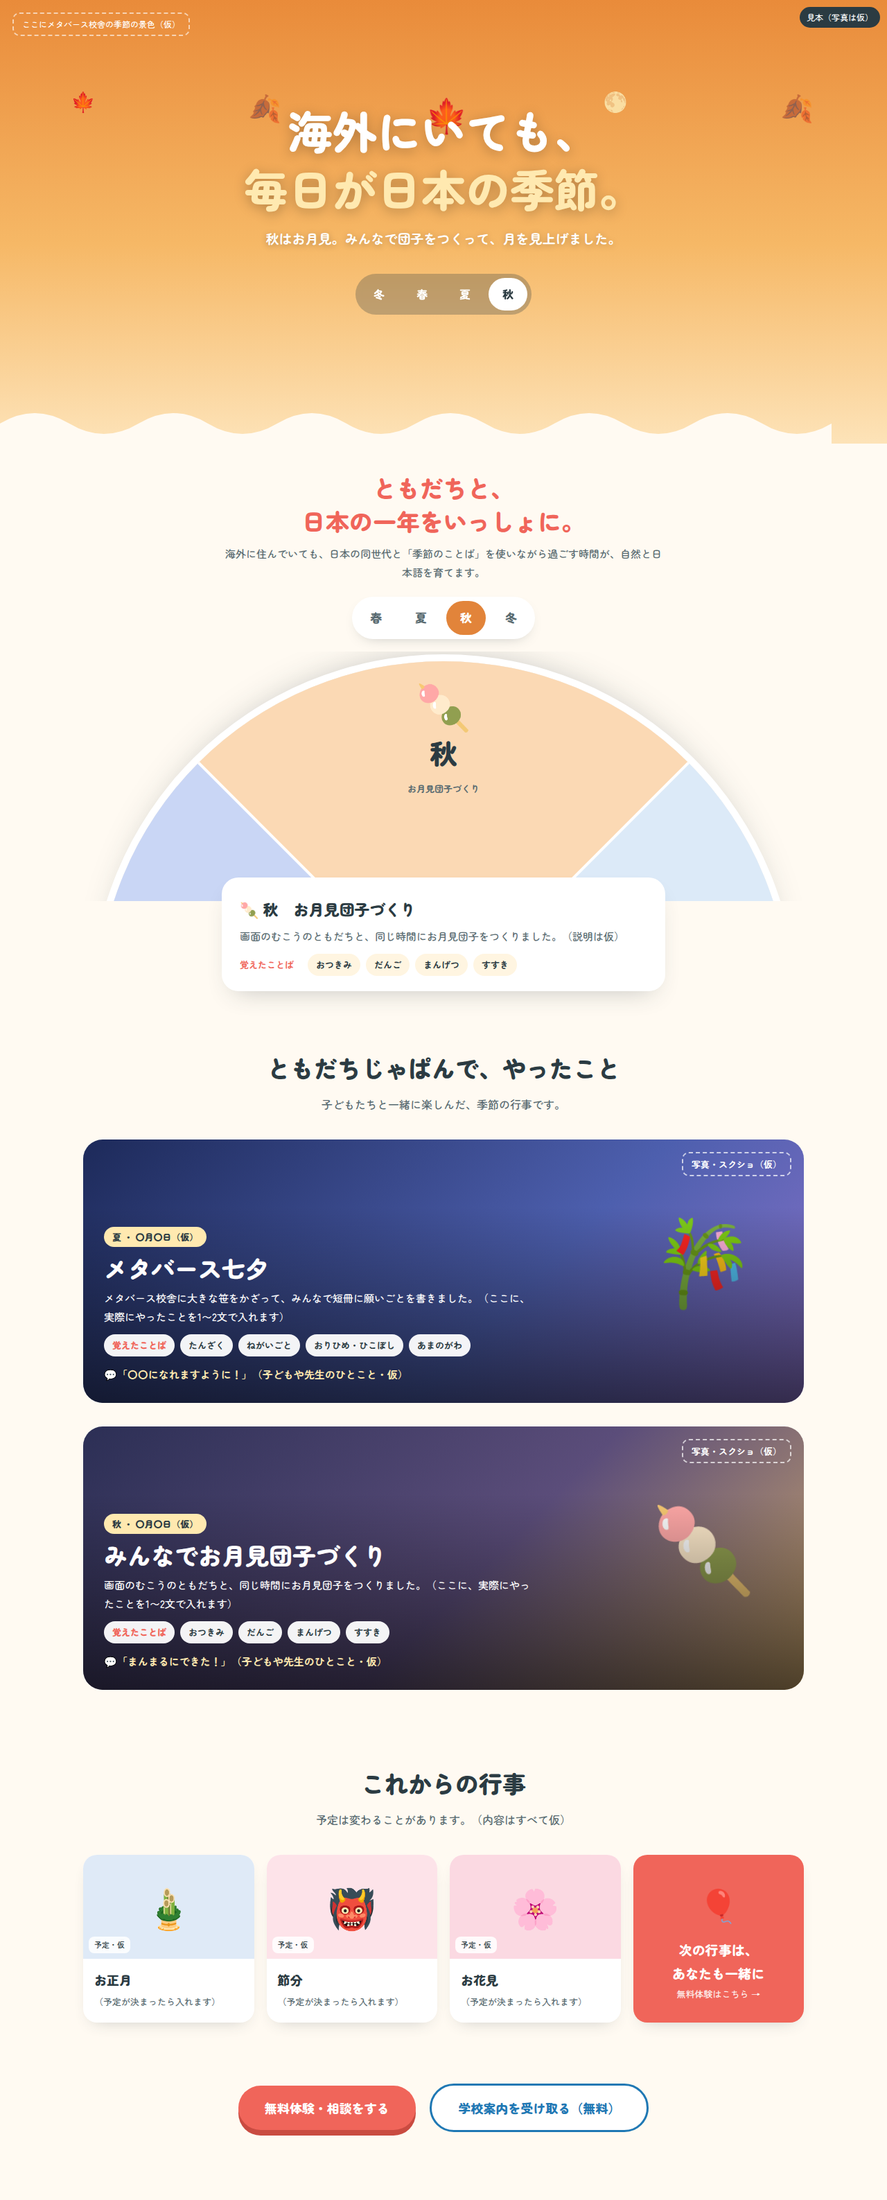
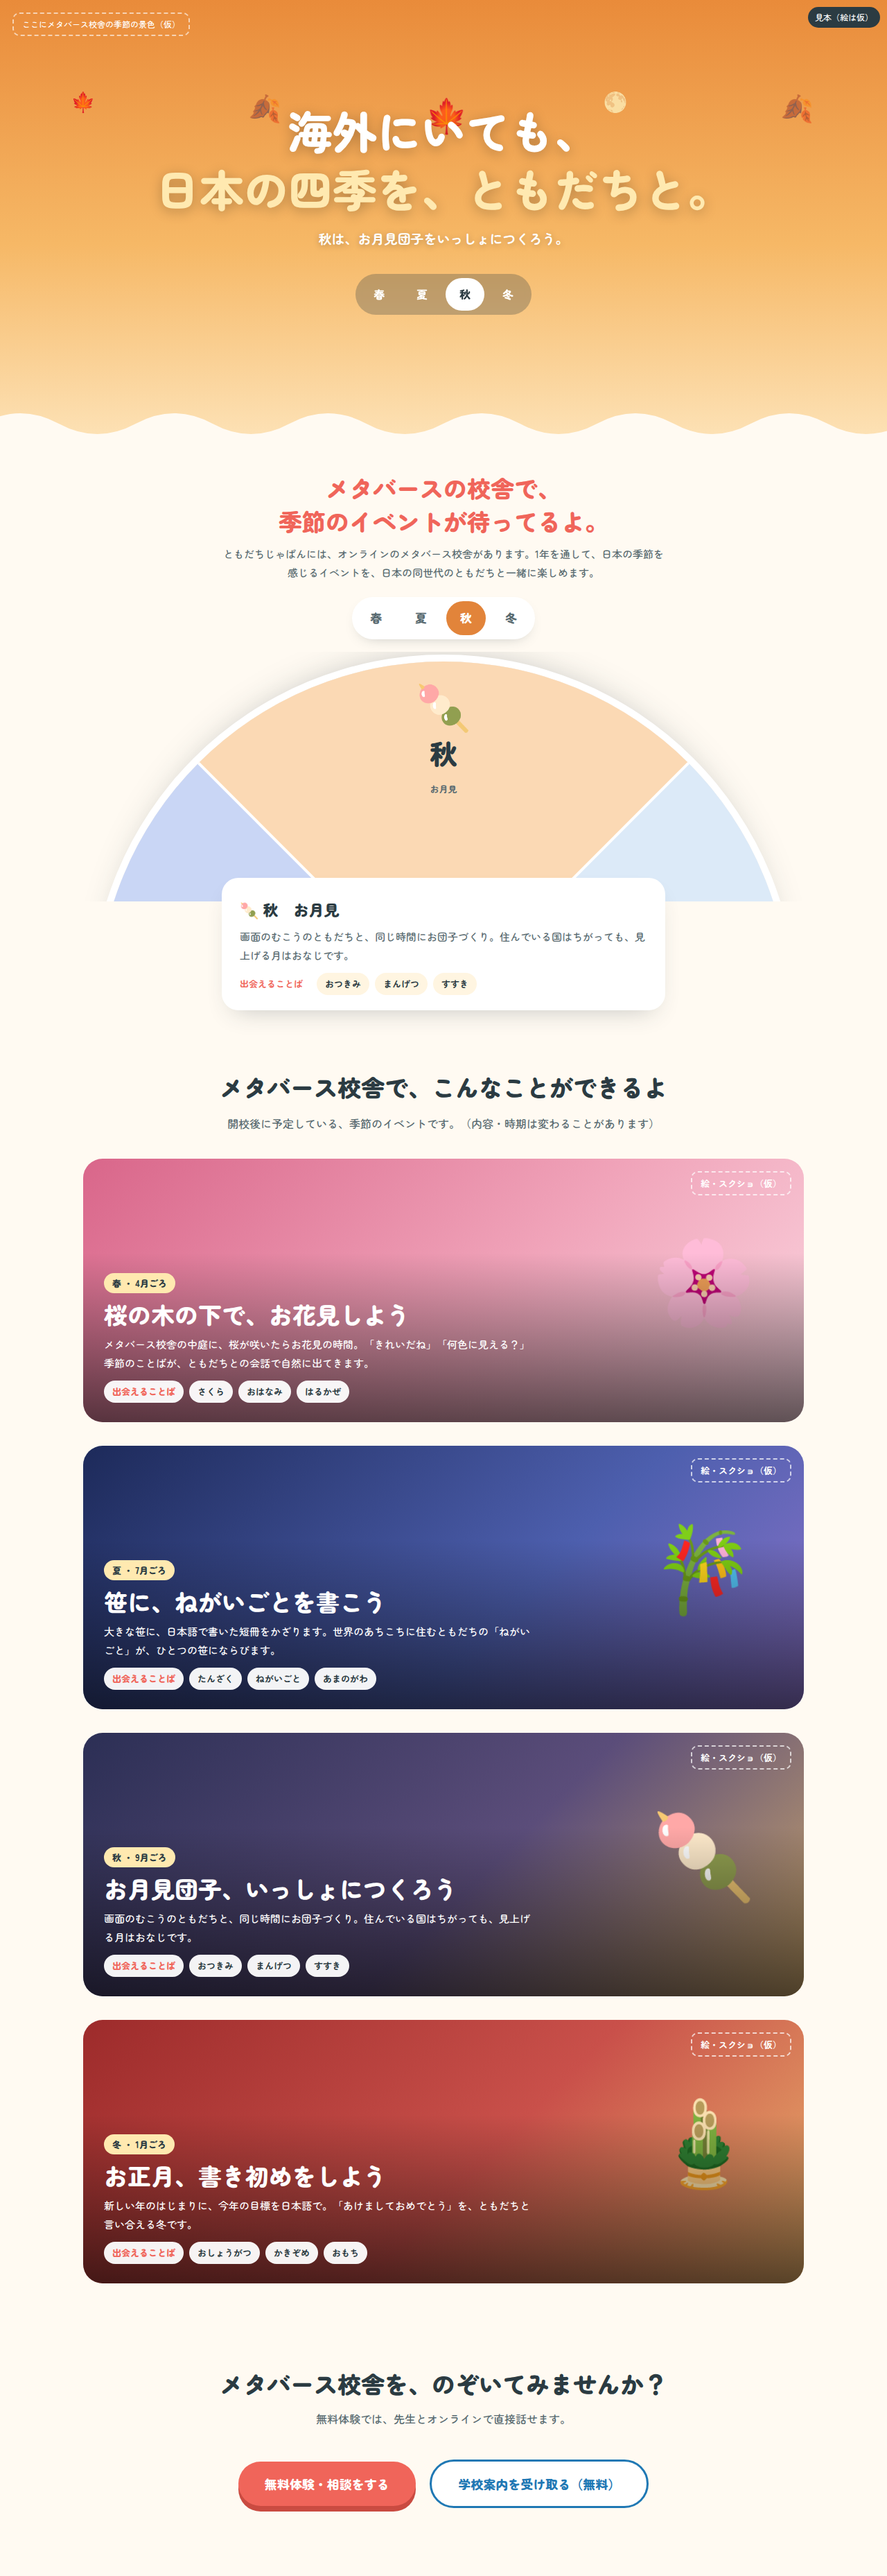
四季のページ見本：予定イベントの案内ページに書き直し
Claude-Session: https://claude.ai/code/session_01TCRPV7fohktLwWF6WC9mVd

diff --git a/site/kisetsu/kisetsu-mock.html b/site/kisetsu/kisetsu-mock.html
@@ -23,7 +23,7 @@ body{font-family:'Zen Maru Gothic',sans-serif;color:#2b3b42;background:#fffaf2;l
 .ks-tabs{position:relative;display:flex;gap:6px;margin-top:34px;background:rgba(43,59,66,.28);padding:6px;border-radius:999px;backdrop-filter:blur(4px)}
 .ks-tabs button{font:inherit;font-weight:900;font-size:16px;border:0;background:transparent;color:#fff;padding:9px 20px;border-radius:999px;cursor:pointer}
 .ks-tabs button.on{background:#fff;color:#2b3b42}
-.ks-edge{position:absolute;left:0;right:0;bottom:-1px;height:60px}
+.ks-edge{position:absolute;left:-2%;width:104%;bottom:-1px;height:60px}
 /* ===== あいさつ（アーチ） ===== */
 /* ===== 季節の輪（大きな円が回る） ===== */
 .ks-ws{position:relative;text-align:center;padding:40px 16px 10px}
@@ -59,6 +59,8 @@ box-shadow:0 0 0 10px #fff,0 20px 50px -20px rgba(43,59,66,.35);transition:trans
 .ks-panel .ks-ph b{position:absolute;top:18px;right:18px;font-size:13px;border:2px dashed rgba(255,255,255,.7);padding:4px 12px;border-radius:10px;font-weight:700}
 .ks-tanabata .ks-ph{background:linear-gradient(135deg,#1d2a5a,#4d5fae 60%,#8a73c9)}
 .ks-tsukimi .ks-ph{background:linear-gradient(135deg,#2c2f55,#5b4d7a 55%,#c9a46a)}
+.ks-hanami .ks-ph{background:linear-gradient(135deg,#d9668a,#f0a3b9 55%,#fbd6e0)}
+.ks-shogatsu .ks-ph{background:linear-gradient(135deg,#9d2b2b,#c9504a 55%,#e9b16a)}
 .ks-panel .ks-in{position:relative;width:100%;padding:28px 30px;background:linear-gradient(0deg,rgba(0,0,0,.62),rgba(0,0,0,0))}
 .ks-tag{display:inline-block;background:#ffe9b0;color:#2b3b42;font-size:13px;font-weight:900;padding:3px 12px;border-radius:999px}
 .ks-panel h3{font-size:clamp(24px,4vw,34px);font-weight:900;margin:8px 0 6px;line-height:1.35}
@@ -85,73 +87,82 @@ box-shadow:0 0 0 10px #fff,0 20px 50px -20px rgba(43,59,66,.35);transition:trans
 @media (max-width:820px){.ks-cards{grid-template-columns:1fr 1fr}}
 @media (max-width:560px){.ks-panel .ks-ph{justify-content:center;padding:58px 0 0;font-size:76px}.ks-hero{min-height:560px}.ks-tabs button{padding:8px 13px;font-size:15px}.ks-panel{min-height:520px}.ks-panel .ks-in{padding:22px 20px}.ks-cards{grid-template-columns:1fr 1fr;gap:12px}.ks-card .ks-cimg{height:110px}}
 </style></head><body>
-<div class="ks-mock">見本（写真は仮）</div>
+<div class="ks-mock">見本（絵は仮）</div>
 
 <section class="ks-hero" id="ksHero" data-s="autumn">
   <div class="ks-photo"><span>ここにメタバース校舎の季節の景色（仮）</span></div>
   <div class="ks-deco" id="ksDeco"></div>
-  <h1>海外にいても、<br><em>毎日が日本の季節。</em></h1>
-  <p class="ks-sub" id="ksSub">秋はお月見。みんなで団子をつくって、月を見上げました。</p>
+  <h1>海外にいても、<br><em>日本の四季を、ともだちと。</em></h1>
+  <p class="ks-sub" id="ksSub"></p>
   <div class="ks-tabs" role="tablist">
-    <button data-s="winter">冬</button><button data-s="spring">春</button><button data-s="summer">夏</button><button data-s="autumn" class="on">秋</button>
+    <button data-s="spring">春</button><button data-s="summer">夏</button><button data-s="autumn" class="on">秋</button><button data-s="winter">冬</button>
   </div>
   <svg class="ks-edge" viewBox="0 0 1200 60" preserveAspectRatio="none"><path fill="#fffaf2" d="M0 30 Q50 0 100 30 Q150 60 200 30 Q250 0 300 30 Q350 60 400 30 Q450 0 500 30 Q550 60 600 30 Q650 0 700 30 Q750 60 800 30 Q850 0 900 30 Q950 60 1000 30 Q1050 0 1100 30 Q1150 60 1200 30 V60 H0Z"/></svg>
 </section>
 
 <section class="ks-ws">
-  <h2>ともだちと、<br>日本の一年をいっしょに。</h2>
-  <p>海外に住んでいても、日本の同世代と「季節のことば」を使いながら過ごす時間が、自然と日本語を育てます。</p>
+  <h2>メタバースの校舎で、<br>季節のイベントが待ってるよ。</h2>
+  <p>ともだちじゃぱんには、オンラインのメタバース校舎があります。1年を通して、日本の季節を感じるイベントを、日本の同世代のともだちと一緒に楽しめます。</p>
   <div class="ks-wb" id="ksWb"><button data-s="spring">春</button><button data-s="summer">夏</button><button data-s="autumn">秋</button><button data-s="winter">冬</button></div>
   <div class="ks-win">
     <div class="ks-wheel" id="ksWheel">
-      <div class="ks-q" style="transform:rotate(0deg)"><div><span class="e">🌸</span><span class="n">春</span><span class="m">お花見（仮）</span></div></div>
-      <div class="ks-q" style="transform:rotate(90deg)"><div><span class="e">🎋</span><span class="n">夏</span><span class="m">メタバース七夕</span></div></div>
-      <div class="ks-q" style="transform:rotate(180deg)"><div><span class="e">🍡</span><span class="n">秋</span><span class="m">お月見団子づくり</span></div></div>
-      <div class="ks-q" style="transform:rotate(270deg)"><div><span class="e">⛄</span><span class="n">冬</span><span class="m">お正月（仮）</span></div></div>
+      <div class="ks-q" style="transform:rotate(0deg)"><div><span class="e">🌸</span><span class="n">春</span><span class="m">お花見</span></div></div>
+      <div class="ks-q" style="transform:rotate(90deg)"><div><span class="e">🎋</span><span class="n">夏</span><span class="m">七夕</span></div></div>
+      <div class="ks-q" style="transform:rotate(180deg)"><div><span class="e">🍡</span><span class="n">秋</span><span class="m">お月見</span></div></div>
+      <div class="ks-q" style="transform:rotate(270deg)"><div><span class="e">⛄</span><span class="n">冬</span><span class="m">お正月</span></div></div>
     </div>
   </div>
   <div class="ks-wt" id="ksWt"></div>
 </section>
 
 <section class="ks-wrap">
-  <h2 class="ks-h">ともだちじゃぱんで、<span style="display:inline-block">やったこと</span></h2>
-  <p class="ks-lead">子どもたちと一緒に楽しんだ、<span style="display:inline-block">季節の行事です。</span></p>
+  <h2 class="ks-h">メタバース校舎で、<span style="display:inline-block">こんなことができるよ</span></h2>
+  <p class="ks-lead">開校後に予定している、季節のイベントです。<span style="display:inline-block">（内容・時期は変わることがあります）</span></p>
+
+  <article class="ks-panel ks-hanami">
+    <div class="ks-ph">🌸<b>絵・スクショ（仮）</b></div>
+    <div class="ks-in">
+      <span class="ks-tag">春 ・ 4月ごろ</span>
+      <h3>桜の木の下で、お花見しよう</h3>
+      <p>メタバース校舎の中庭に、桜が咲いたらお花見の時間。「きれいだね」「何色に見える？」季節のことばが、ともだちとの会話で自然に出てきます。</p>
+      <div class="ks-words"><span><b>出会えることば</b></span><span>さくら</span><span>おはなみ</span><span>はるかぜ</span></div>
+    </div>
+  </article>
 
   <article class="ks-panel ks-tanabata">
-    <div class="ks-ph">🎋<b>写真・スクショ（仮）</b></div>
+    <div class="ks-ph">🎋<b>絵・スクショ（仮）</b></div>
     <div class="ks-in">
-      <span class="ks-tag">夏 ・ 〇月〇日（仮）</span>
-      <h3>メタバース七夕</h3>
-      <p>メタバース校舎に大きな笹をかざって、みんなで短冊に願いごとを書きました。（ここに、実際にやったことを1〜2文で入れます）</p>
-      <div class="ks-words"><span><b>覚えたことば</b></span><span>たんざく</span><span>ねがいごと</span><span>おりひめ・ひこぼし</span><span>あまのがわ</span></div>
-      <p class="ks-voice">💬「〇〇になれますように！」（子どもや先生のひとこと・仮）</p>
+      <span class="ks-tag">夏 ・ 7月ごろ</span>
+      <h3>笹に、ねがいごとを書こう</h3>
+      <p>大きな笹に、日本語で書いた短冊をかざります。世界のあちこちに住むともだちの「ねがいごと」が、ひとつの笹にならびます。</p>
+      <div class="ks-words"><span><b>出会えることば</b></span><span>たんざく</span><span>ねがいごと</span><span>あまのがわ</span></div>
     </div>
   </article>
 
   <article class="ks-panel ks-tsukimi">
-    <div class="ks-ph">🍡<b>写真・スクショ（仮）</b></div>
+    <div class="ks-ph">🍡<b>絵・スクショ（仮）</b></div>
     <div class="ks-in">
-      <span class="ks-tag">秋 ・ 〇月〇日（仮）</span>
-      <h3>みんなでお月見団子づくり</h3>
-      <p>画面のむこうのともだちと、同じ時間にお月見団子をつくりました。（ここに、実際にやったことを1〜2文で入れます）</p>
-      <div class="ks-words"><span><b>覚えたことば</b></span><span>おつきみ</span><span>だんご</span><span>まんげつ</span><span>すすき</span></div>
-      <p class="ks-voice">💬「まんまるにできた！」（子どもや先生のひとこと・仮）</p>
+      <span class="ks-tag">秋 ・ 9月ごろ</span>
+      <h3>お月見団子、いっしょにつくろう</h3>
+      <p>画面のむこうのともだちと、同じ時間にお団子づくり。住んでいる国はちがっても、見上げる月はおなじです。</p>
+      <div class="ks-words"><span><b>出会えることば</b></span><span>おつきみ</span><span>まんげつ</span><span>すすき</span></div>
+    </div>
+  </article>
+
+  <article class="ks-panel ks-shogatsu">
+    <div class="ks-ph">🎍<b>絵・スクショ（仮）</b></div>
+    <div class="ks-in">
+      <span class="ks-tag">冬 ・ 1月ごろ</span>
+      <h3>お正月、書き初めをしよう</h3>
+      <p>新しい年のはじまりに、今年の目標を日本語で。「あけましておめでとう」を、ともだちと言い合える冬です。</p>
+      <div class="ks-words"><span><b>出会えることば</b></span><span>おしょうがつ</span><span>かきぞめ</span><span>おもち</span></div>
     </div>
   </article>
 </section>
 
-<section class="ks-wrap" style="padding-top:0">
-  <h2 class="ks-h">これからの行事</h2>
-  <p class="ks-lead">予定は変わることがあります。（内容はすべて仮）</p>
-  <div class="ks-cards">
-    <div class="ks-card"><div class="ks-cimg" style="background:#dfeaf7">🎍<small>予定・仮</small></div><h4>お正月</h4><p>（予定が決まったら入れます）</p></div>
-    <div class="ks-card"><div class="ks-cimg" style="background:#fde3e9">👹<small>予定・仮</small></div><h4>節分</h4><p>（予定が決まったら入れます）</p></div>
-    <div class="ks-card"><div class="ks-cimg" style="background:#fbd9e2">🌸<small>予定・仮</small></div><h4>お花見</h4><p>（予定が決まったら入れます）</p></div>
-    <a class="ks-card ks-cta" href="/trial/?utm_source=kisetsu&amp;utm_medium=page&amp;utm_campaign=taiken"><span>🎈</span><strong>次の行事は、<br>あなたも一緒に</strong><em>無料体験はこちら →</em></a>
-  </div>
-</section>
-
 <section class="ks-end">
+  <h2 class="ks-h" style="margin-bottom:6px">メタバース校舎を、<span style="display:inline-block">のぞいてみませんか？</span></h2>
+  <p class="ks-lead">無料体験では、先生とオンラインで直接話せます。</p>
   <a class="ks-btn" href="/trial/?utm_source=kisetsu&amp;utm_medium=page&amp;utm_campaign=taiken">無料体験・相談をする</a>
   <a class="ks-btn ks-sub2" href="/waitlist/?utm_source=kisetsu&amp;utm_medium=page&amp;utm_campaign=shiryou">学校案内を受け取る（無料）</a>
 </section>
@@ -159,14 +170,14 @@ box-shadow:0 0 0 10px #fff,0 20px 50px -20px rgba(43,59,66,.35);transition:trans
 <script>
 (function(){
 var S={
- spring:{i:0,sub:"春はお花見。（仮）",d:["🌸","🌸","🌸","🌸","🌸"],t:"🌸 春　お花見（仮）",p:"（春にやる行事が決まったら、ここに説明を入れます）",w:["さくら","おはなみ","はるやすみ"]},
- summer:{i:1,sub:"夏は七夕。願いごとを短冊に書きました。",d:["✨","⭐","🎋","✨","⭐"],t:"🎋 夏　メタバース七夕",p:"メタバース校舎に大きな笹をかざって、みんなで短冊に願いごとを書きました。（説明は仮）",w:["たんざく","ねがいごと","あまのがわ"]},
- autumn:{i:2,sub:"秋はお月見。みんなで団子をつくって、月を見上げました。",d:["🍁","🍂","🍁","🌕","🍂"],t:"🍡 秋　お月見団子づくり",p:"画面のむこうのともだちと、同じ時間にお月見団子をつくりました。（説明は仮）",w:["おつきみ","だんご","まんげつ","すすき"]},
- winter:{i:3,sub:"冬は雪あそびとお正月。（仮）",d:["❄","❄","⛄","❄","❄"],t:"⛄ 冬　お正月（仮）",p:"（冬にやる行事が決まったら、ここに説明を入れます）",w:["おしょうがつ","かきぞめ","おもち"]}
+ spring:{i:0,sub:"春は、桜の下でお花見しよう。",d:["🌸","🌸","🌸","🌸","🌸"],t:"🌸 春　お花見",p:"メタバース校舎の中庭に、桜が咲きます。ともだちと桜を見ながら、春のことばをたくさん使ってみよう。",w:["さくら","おはなみ","はるかぜ"]},
+ summer:{i:1,sub:"夏は、笹にねがいごとを書こう。",d:["✨","⭐","🎋","✨","⭐"],t:"🎋 夏　七夕",p:"大きな笹に、日本語で書いた短冊をかざります。世界中のともだちのねがいごとが、ひとつの笹に。",w:["たんざく","ねがいごと","あまのがわ"]},
+ autumn:{i:2,sub:"秋は、お月見団子をいっしょにつくろう。",d:["🍁","🍂","🍁","🌕","🍂"],t:"🍡 秋　お月見",p:"画面のむこうのともだちと、同じ時間にお団子づくり。住んでいる国はちがっても、見上げる月はおなじです。",w:["おつきみ","まんげつ","すすき"]},
+ winter:{i:3,sub:"冬は、お正月に書き初めをしよう。",d:["❄","❄","⛄","❄","❄"],t:"⛄ 冬　お正月",p:"新しい年のはじまりに、今年の目標を日本語で書いてみよう。「あけましておめでとう」を、ともだちと。",w:["おしょうがつ","かきぞめ","おもち"]}
 };
 var hero=document.getElementById("ksHero"),deco=document.getElementById("ksDeco"),sub=document.getElementById("ksSub"),
  wheel=document.getElementById("ksWheel"),wt=document.getElementById("ksWt"),ang=0,first=1;
-function words(a){return '<div class="ks-words"><span class="k">覚えたことば</span>'+a.map(function(x){return "<span>"+x+"</span>"}).join("")+"</div>"}
+function words(a){return '<div class="ks-words"><span class="k">出会えることば</span>'+a.map(function(x){return "<span>"+x+"</span>"}).join("")+"</div>"}
 function set(s){
  var o=S[s];
  hero.setAttribute("data-s",s);sub.textContent=o.sub;deco.innerHTML="";
